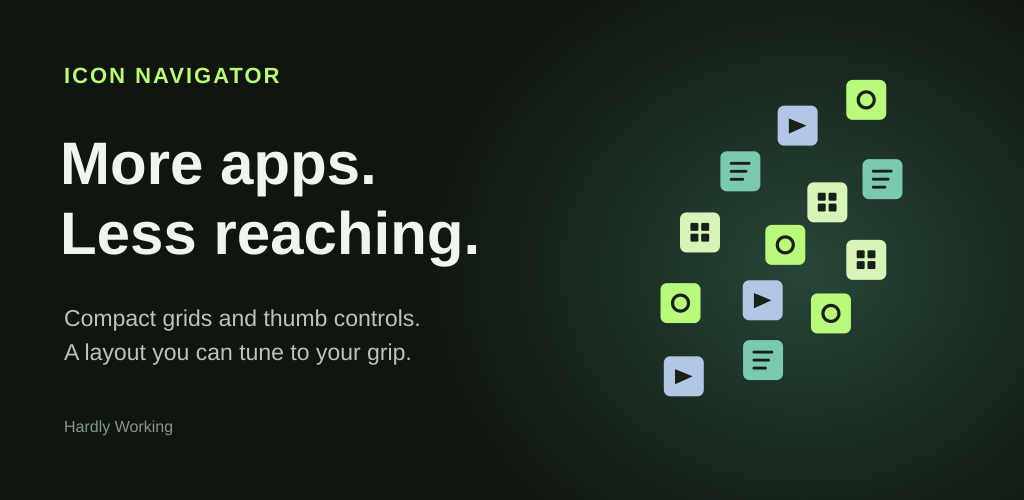
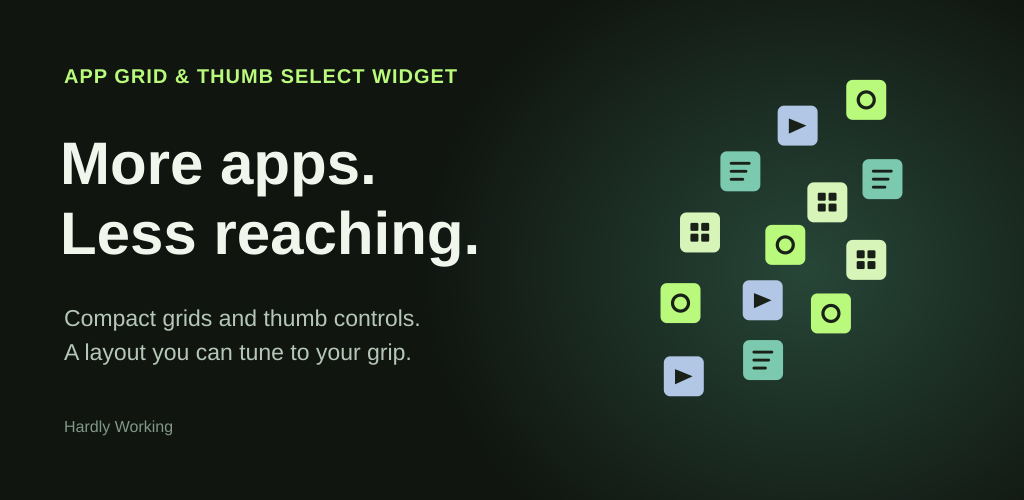
Rename app and replace email action with developer page

Changed region(s): [[0.0625, 0.12, 0.4375, 0.18]]

diff --git a/publishing/google-play/index.html b/publishing/google-play/index.html
@@ -1,6 +1,6 @@
 <!doctype html>
 <html lang="en"><meta charset="utf-8"><meta name="viewport" content="width=device-width,initial-scale=1">
-<title>Icon Navigator · Google Play materials</title>
+<title>App Grid &amp; Thumb Select Widget · Google Play materials</title>
 <style>
 body{margin:0;padding:32px;background:#101610;color:#eaf1e5;font:16px system-ui,sans-serif}
 h1{font-size:32px;margin:0 0 12px}p{color:#b5c4af;line-height:1.6;max-width:760px}
@@ -8,11 +8,11 @@ a{color:#bef779}main{display:grid;grid-template-columns:repeat(auto-fit,minmax(2
 figure{margin:0}img{width:100%;height:auto;display:block;border-radius:10px;border:1px solid #344032}
 figcaption{padding:12px 0;line-height:1.5}figcaption p{font-size:14px;margin:8px 0}header{margin-bottom:28px}
 .brand{display:flex;align-items:center;gap:20px}.brand img{width:88px;border:0;border-radius:0}.feature{max-width:1024px;margin:24px 0}.feature img{border-radius:0}nav{display:flex;flex-wrap:wrap;gap:20px;margin:20px 0}h2{font-size:24px;margin:36px 0 20px}
-</style><header><div class="brand"><img src="graphics/app-icon-512.png" alt="Icon Navigator app icon"><h1>Icon Navigator</h1></div>
+</style><header><div class="brand"><img src="graphics/app-icon-512.png" alt="App Grid &amp; Thumb Select Widget app icon"><h1>App Grid &amp; Thumb Select Widget</h1></div>
 <p>More apps in less space. Keep frequent apps close to your chosen corner.<br>
 Compare 9, 12, and 16 apps in a compact Grid, or place a Thumb selector low on the screen.</p>
 <p>Make it yours with optional labels, light or dark backgrounds, gradients, grayscale icons, borders, opacity, and independent layer sizes.</p>
-<p>Eight real app and launcher captures · version 0.6.4 · 1080 × 1920 · RGB PNG.<br>
+<p>Eight real app and launcher captures · version 0.6.5 · 1080 × 1920 · RGB PNG.<br>
 Original packaged AOSP and Fossify icons, styled using the app’s own visual options. No phone artwork or imported icon images.</p>
 <nav><a href="graphics/app-icon-512.png">512px store icon</a><a href="graphics/feature-graphic-1024x500.png">Feature graphic</a><a href="RELEASE-CHECKLIST.md">Release checklist</a><a href="APP-CONTENT.md">App content answers</a></nav>
 <figure class="feature"><img src="graphics/feature-graphic-1024x500.png" alt="More apps. Less reaching. Original thumb-layout illustration."><figcaption>1024 × 500 feature graphic · original vector artwork</figcaption></figure>

diff --git a/app/src/main/java/dev/iconnavigator/PrivacyActivity.java b/app/src/main/java/dev/iconnavigator/PrivacyActivity.java
@@ -21,25 +21,31 @@ public final class PrivacyActivity extends Activity {
         super.onCreate(state);getWindow().setDecorFitsSystemWindows(false);
         LinearLayout body=new LinearLayout(this);body.setOrientation(LinearLayout.VERTICAL);body.setPadding(dp(20),dp(12),dp(20),dp(20));
         body.setBackgroundColor(0xff101310);
-        TextView title=new TextView(this);title.setText("Privacy & support");title.setTextSize(26);title.setTextColor(0xffb9f97b);body.addView(title);
+        TextView title=new TextView(this);title.setText(R.string.privacy_support_title);title.setTextSize(26);title.setTextColor(0xffb9f97b);body.addView(title);
         TextView text=new TextView(this);text.setTextSize(16);text.setTextColor(0xffedf3e9);text.setPadding(0,dp(16),0,dp(16));
         StringBuilder policy=new StringBuilder();
         try(var reader=new BufferedReader(new InputStreamReader(getResources().openRawResource(R.raw.privacy_policy),StandardCharsets.UTF_8))) {
             String line;while((line=reader.readLine())!=null)policy.append(line).append('\n');
         } catch(java.io.IOException e) {throw new IllegalStateException("Cannot read packaged privacy policy",e);}
         text.setText(policy);body.addView(text);
-        add(body,"Read policy online","https://github.com/erikhardlyworking/icon-navigator/blob/main/PRIVACY.md");
-        add(body,"Email Hardly Working","mailto:workinghardlyforyou@gmail.com");
-        Button back=new Button(this);back.setText("Back to settings");back.setAllCaps(false);back.setOnClickListener(v->finish());body.addView(back);
+        add(body,getString(R.string.read_policy_online),"https://github.com/erikhardlyworking/icon-navigator/blob/main/PRIVACY.md",false);
+        add(body,getString(R.string.more_apps_by_developer),getString(R.string.developer_page_url),true);
+        Button back=new Button(this);back.setText(R.string.back_to_settings);back.setAllCaps(false);back.setOnClickListener(v->finish());body.addView(back);
         ScrollView scroll=new ScrollView(this);scroll.setBackgroundColor(Color.BLACK);scroll.addView(body);
         scroll.setOnApplyWindowInsetsListener((v,insets)->{var bars=insets.getInsets(WindowInsets.Type.systemBars());v.setPadding(bars.left,bars.top,bars.right,bars.bottom);return insets;});
         setContentView(scroll);
     }
     private int dp(int value){return Math.round(value*getResources().getDisplayMetrics().density);}
-    private void add(LinearLayout body,String label,String uri){
+    private void add(LinearLayout body,String label,String uri,boolean preferPlay){
         Button button=new Button(this);button.setText(label);button.setAllCaps(false);button.setMinHeight(dp(48));
-        button.setOnClickListener(v->{try{startActivity(new Intent(Intent.ACTION_VIEW,Uri.parse(uri)));}
-            catch(android.content.ActivityNotFoundException e){Toast.makeText(this,"No app is available to open this link.",Toast.LENGTH_SHORT).show();}});
+        button.setOnClickListener(v->{
+            Intent intent=new Intent(Intent.ACTION_VIEW,Uri.parse(uri));
+            if(preferPlay){
+                intent.setPackage("com.android.vending");
+                try{startActivity(intent);return;}catch(android.content.ActivityNotFoundException e){intent.setPackage(null);}
+            }
+            try{startActivity(intent);}catch(android.content.ActivityNotFoundException e){Toast.makeText(this,R.string.no_link_app,Toast.LENGTH_SHORT).show();}
+        });
         body.addView(button);
     }
 }

diff --git a/tools/prepare-play-assets.py b/tools/prepare-play-assets.py
@@ -99,7 +99,7 @@ feature='''<svg xmlns="http://www.w3.org/2000/svg" width="1024" height="500" vie
 <rect width="1024" height="500" fill="#101510"/>
 <ellipse cx="805" cy="270" rx="380" ry="335" fill="url(#glow)"/>
 <g font-family="Liberation Sans, sans-serif">
-<text x="64" y="83" fill="#b9f97b" font-size="22" font-weight="700" letter-spacing="2">ICON NAVIGATOR</text>
+<text x="64" y="83" fill="#b9f97b" font-size="20" font-weight="700" letter-spacing="1">APP GRID &amp; THUMB SELECT WIDGET</text>
 <text x="60" y="184" fill="#f1f6ed" font-size="60" font-weight="700">More apps.</text>
 <text x="60" y="254" fill="#f1f6ed" font-size="60" font-weight="700">Less reaching.</text>
 <text x="64" y="326" fill="#b5c7b6" font-size="23">Compact grids and thumb controls.</text>
@@ -114,11 +114,11 @@ for source,name,size,mode in [('app-icon.svg','app-icon-512.png','512x512','PNG3
         assert image.mode==('RGBA' if mode=='PNG32' else 'RGB')
 assert (GRAPHICS/'app-icon-512.png').stat().st_size<1024*1024
 
-title='Icon Navigator'
+title='App Grid & Thumb Select Widget'
 short='More apps in less space, with compact grids and controls for your thumb'
 full='''Make room on your home screen and keep frequent apps close to your thumb.
 
-Icon Navigator gives you two configurable Android widgets: Grid and Thumb icon selector.
+App Grid & Thumb Select Widget gives you two configurable Android widgets: Grid and Thumb icon selector.
 
 FIT MORE APPS INTO YOUR HOME SCREEN
 Choose your own rows and columns. Put 9, 12 or 16 apps into a compact grid, or turn a grid into a horizontal or vertical strip. Widget rows and columns are independent of your launcher's grid.
@@ -136,7 +136,7 @@ EVERY ICON OPENS ITS APP
 Tap a widget icon to launch its assigned activity directly. Icons fit the available widget size without adding pages or pagination. Settings explain when a selection needs more positions or when icons shrink to fit.
 
 LOCAL AND OFFLINE
-No account, advertising or analytics. Widget settings and selected artwork stay in private app storage. Icon Navigator does not request internet access.
+No account, advertising or analytics. Widget settings and selected artwork stay in private app storage. App Grid & Thumb Select Widget does not request internet access.
 
 After installation, add Grid or Thumb icon selector from your launcher's widget picker, choose your apps, and save. Your launcher controls placement and resizing. Android 12 or newer is required. Choose a size and spacing that work for your hand and phone.'''
 notes='''First Google Play release.
@@ -149,6 +149,7 @@ for name,text in [('title.txt',title),('short-description.txt',short),('full-des
 metadata={'applicationId':'dev.iconnavigator','publisher':'Hardly Working','supportEmail':'workinghardlyforyou@gmail.com',
           'language':'en-US','category':'PERSONALIZATION','website':'https://github.com/erikhardlyworking/icon-navigator',
           'privacyPolicyUrl':'https://github.com/erikhardlyworking/icon-navigator/blob/main/PRIVACY.md',
+          'developerPageUrl':'https://play.google.com/store/apps/dev?id=6256987868491351341',
           'title':title,'shortDescription':short,'fullDescription':full,'releaseNotes':notes,
           'pricing':'Choose in Play Console before first publication','targetAudience':'Choose in Play Console for the intended audience'}
 (DEST/'store-listing.json').write_text(json.dumps(metadata,indent=2)+'\n')

diff --git a/tools/capture-play-screenshots.py b/tools/capture-play-screenshots.py
@@ -247,7 +247,7 @@ def package():
     (DEST / "manifest.json").write_text(json.dumps({"appVersion": version, "screenshots": records}, indent=2) + "\n")
     (DEST / "index.html").write_text('''<!doctype html>
 <html lang="en"><meta charset="utf-8"><meta name="viewport" content="width=device-width,initial-scale=1">
-<title>Icon Navigator · Google Play materials</title>
+<title>App Grid &amp; Thumb Select Widget · Google Play materials</title>
 <style>
 body{margin:0;padding:32px;background:#101610;color:#eaf1e5;font:16px system-ui,sans-serif}
 h1{font-size:32px;margin:0 0 12px}p{color:#b5c4af;line-height:1.6;max-width:760px}
@@ -255,7 +255,7 @@ a{color:#bef779}main{display:grid;grid-template-columns:repeat(auto-fit,minmax(2
 figure{margin:0}img{width:100%;height:auto;display:block;border-radius:10px;border:1px solid #344032}
 figcaption{padding:12px 0;line-height:1.5}figcaption p{font-size:14px;margin:8px 0}header{margin-bottom:28px}
 .brand{display:flex;align-items:center;gap:20px}.brand img{width:88px;border:0;border-radius:0}.feature{max-width:1024px;margin:24px 0}.feature img{border-radius:0}nav{display:flex;flex-wrap:wrap;gap:20px;margin:20px 0}h2{font-size:24px;margin:36px 0 20px}
-</style><header><div class="brand"><img src="graphics/app-icon-512.png" alt="Icon Navigator app icon"><h1>Icon Navigator</h1></div>
+</style><header><div class="brand"><img src="graphics/app-icon-512.png" alt="App Grid &amp; Thumb Select Widget app icon"><h1>App Grid &amp; Thumb Select Widget</h1></div>
 <p>More apps in less space. Keep frequent apps close to your chosen corner.<br>
 Compare 9, 12, and 16 apps in a compact Grid, or place a Thumb selector low on the screen.</p>
 <p>Make it yours with optional labels, light or dark backgrounds, gradients, grayscale icons, borders, opacity, and independent layer sizes.</p>

diff --git a/app/src/main/java/dev/iconnavigator/EditorActivity.java b/app/src/main/java/dev/iconnavigator/EditorActivity.java
@@ -111,7 +111,7 @@ public final class EditorActivity extends Activity {
             v.setPadding(bars.left, bars.top, bars.right, bars.bottom); return insets;
         });
         LinearLayout header = row(); header.setPadding(dp(20), dp(6), dp(16), 0);
-        weighted(header, text("ICON NAVIGATOR", 13, ACCENT));
+        weighted(header, text(getString(R.string.app_name).toUpperCase(Locale.ROOT), 13, ACCENT));
         if (!configuring) header.addView(button(widgetId == 0 ? "New widget ▾" : "Widget " + widgetId + " ▾", this::chooseWidget));
         root.addView(header);
         LinearLayout steps = row(); steps.setPadding(dp(12), 0, dp(12), 0); stepButtons.clear();
@@ -587,7 +587,7 @@ public final class EditorActivity extends Activity {
         if (config.icons.isEmpty()) { return; }
         AppWidgetManager manager = AppWidgetManager.getInstance(this);
         if (!manager.isRequestPinAppWidgetSupported()) {
-            new AlertDialog.Builder(this).setMessage("Save your draft, then long-press your home screen and choose Widgets → Icon Navigator.")
+            new AlertDialog.Builder(this).setMessage("Save your draft, then long-press your home screen and choose Widgets → " + getString(R.string.app_name) + ".")
                     .setPositiveButton("OK", null).show(); return;
         }
         store.save(0, config);

diff --git a/tools/package-play-kit.py b/tools/package-play-kit.py
@@ -5,6 +5,7 @@ import json
 from pathlib import Path
 import re
 import zipfile
+from xml.etree import ElementTree
 from PIL import Image
 
 ROOT=Path(__file__).resolve().parents[1]
@@ -38,6 +39,8 @@ for name,size,mode in [('app-icon-512.png',(512,512),'RGBA'),('feature-graphic-1
     with Image.open(DEST/'graphics'/name) as image:assert image.size==size and image.mode==mode,name
 assert (DEST/'graphics/app-icon-512.png').stat().st_size<=1024*1024
 listing=json.loads((DEST/'store-listing.json').read_text())
+app_name=ElementTree.parse(ROOT/'app/src/main/res/values/strings.xml').find("string[@name='app_name']").text
+assert listing['title']==app_name,(listing['title'],app_name)
 for key,limit in [('title',30),('shortDescription',80),('fullDescription',4000)]:assert len(listing[key])<=limit,key
 release=json.loads((DEST/'release/release-manifest.json').read_text())
 assert (release['versionName'],release['versionCode'],release['targetSdk'])==(version,code,36)

diff --git a/app/src/androidTest/java/dev/iconnavigator/PlayScreenshotInstrumentation.java b/app/src/androidTest/java/dev/iconnavigator/PlayScreenshotInstrumentation.java
@@ -50,7 +50,7 @@ public final class PlayScreenshotInstrumentation extends Instrumentation {
     };
     private static final String[] LABELS = {
         "Phone", "Messages", "Camera", "Gallery", "Clock", "Calendar", "Contacts", "Files",
-        "Calculator", "Notes", "Music", "Recorder", "Settings", "Search", "Browser", "Icon Navigator"
+        "Calculator", "Notes", "Music", "Recorder", "Settings", "Search", "Browser", "App Grid & Thumb Select Widget"
     };
     @Override public void onCreate(Bundle arguments) { args=arguments; super.onCreate(arguments); start(); }
     @Override public void onStart() {

diff --git a/docs/testing.md b/docs/testing.md
@@ -1,13 +1,14 @@
-# Validation — version 0.6.4
+# Validation — version 0.6.5
 
-Verified on 2026-11-15 using JDK 17, Gradle 8.14, Android SDK 36, and isolated Android 15 / API 35 emulator **emulator-5580** (1080 × 1920, 420 dpi). Version code **12**.
+Verified on 2026-11-15 using JDK 17, Gradle 8.14, Android SDK 36, and isolated Android 15 / API 35 emulator **emulator-5580** (1080 × 1920, 420 dpi). Version code **13**.
 
 | Check | Result |
 | --- | --- |
 | Debug APK and Android test APK builds | Passed |
 | JVM unit tests | 29 passed |
 | Android integration/UI tests | 28 passed |
-| Android lint | 0 errors, 14 warnings |
+| Android lint | 0 errors, 12 warnings |
+| Public name and developer link | 30-character title matches launcher/editor/Play copy; email button removed; actual developer-button click opens correct ID in emulator browser fallback |
 | Two offered entries and six compatibility entries | Eight providers bound; only Grid/Thumb lack hide_from_picker |
 | Inner/outer reach | Independent radial endpoints; ordered controls; preview, preset, recreation and Save persistence; schema 6 keeps Fit widget |
 | Saved handedness and grip | Left/right, center height, layer spacing, and edge inset round-trip independently |
@@ -55,18 +56,20 @@ Use an explicit isolated emulator serial, never the user's phone. Binding tests 
 
 ## Phone installation and limits
 
-A Samsung **SM-S938B**, Android 17 / API 37, received **0.6.4 (12)** on **2026-11-15** through an authorized compatible `adb -s PHONE_SERIAL install -r`. Installation succeeded and package version verification confirmed 0.6.4 (12). App data, preferences and existing widget configurations were preserved. Automated suites and capture configurations stayed on the isolated emulator. This is installation verification, not a complete API 37 UI test pass.
+A Samsung **SM-S938B**, Android 17 / API 37, received **0.6.5 (13)** on **2026-11-15** through an authorized compatible `adb -s PHONE_SERIAL install -r`. Installation succeeded and package version verification confirmed 0.6.5 (13). App data, preferences and existing widget configurations were preserved. Automated suites and capture configurations stayed on the isolated emulator. This is installation verification, not a complete API 37 UI test pass.
 
 There is no large fixed thumb minimum. The new entry requests 2 × 3 launcher cells with a 40 dp minimum resize hint; geometry fits all nonempty configurations to actual bounds. Small widgets can have small icons/targets, and labels hide below 34 dp. Actual comfort, Samsung placement/resizing behavior, Android 12, large fonts, TalkBack, other launchers, custom artwork providers, and large-collection performance on physical devices still need hands-on coverage. Launcher insets and whether the launcher honors hide_from_picker are host-controlled.
 
-The 14 lint warnings concern Gradle version, API 33 Back manifest opt-in on min 31, custom-view construction/draw allocation, unused/obsolete icon resources, English programmatic strings and intentional physical left/right placement. There are no lint errors. A narrow GestureBackNavigation suppression keeps only the API 31/32 onBackPressed fallback; API 33+ uses the framework dispatcher. No production dependency was added.
+The 12 lint warnings concern Gradle version, API 33 Back manifest opt-in on min 31, custom-view construction/draw allocation, unused/obsolete icon resources, English programmatic strings and intentional physical left/right placement. There are no lint errors. A narrow GestureBackNavigation suppression keeps only the API 31/32 onBackPressed fallback; API 33+ uses the framework dispatcher. No production dependency was added.
 
-The required four Gradle checks and release bundle build passed for 0.6.4. All **29 JVM** and **28 Android** tests passed. A previous 0.6.3 run observed an existing transient resize-callback assertion; its full repeat passed. Current integration coverage is on API 35, with target SDK 36; a full API 36/37 runtime suite and Play's pre-launch report remain release-stage checks.
+The required four Gradle checks and release bundle build passed for 0.6.5. All **29 JVM** and **28 Android** tests passed. A previous 0.6.3 run observed an existing transient resize-callback assertion; its full repeat passed. Current integration coverage is on API 35, with target SDK 36; a full API 36/37 runtime suite and Play's pre-launch report remain release-stage checks.
+
+The renamed Privacy & support screen was also opened on the isolated emulator. Its visible buttons are Read policy online, More apps by this developer and Back to settings; no email button remains. Clicking More apps launched the HTTPS developer URL with ID **6256987868491351341** in the emulator's browser, exercising the fallback when Google Play is unavailable. The URL matches both the publisher link in the public Rainline listing and the existing tide app. Play Store routing itself still needs a store-equipped device check. Public and offline policy content were compared after the rename.
 
 ## Screenshots
 
-The current [Google Play materials](../publishing/google-play/README.md) contain eight real 0.6.4 captures at 1080 × 1920, 24-bit RGB PNG. The first three compare four ordinary shortcuts with 9/12/16 widget apps in an equal 2 × 2 Launcher3 footprint. They show optional labels, Light and transparent styles. Image 4 shows 13 stock-icon apps using the current factory thumb geometry, transparent on plain black, low/right with no ordinary shortcuts or dock. It uses a debug-only real Android AppWidgetHost at 250 × 300 dp. Forest/grayscale/border styling appears on a customized 12-app left selector. A Dark 8-app strip, actual icon-color choices, and independent layer-size sliders complete the set.
+The current [Google Play materials](../publishing/google-play/README.md) contain eight real 0.6.5 captures at 1080 × 1920, 24-bit RGB PNG. The first three compare four ordinary shortcuts with 9/12/16 widget apps in an equal 2 × 2 Launcher3 footprint. They show optional labels, Light and transparent styles. Image 4 shows 13 stock-icon apps using the current factory thumb geometry, transparent on plain black, low/right with no ordinary shortcuts or dock. It uses a debug-only real Android AppWidgetHost at 250 × 300 dp. Forest/grayscale/border styling appears on a customized 12-app left selector. A Dark 8-app strip, actual icon-color choices, and independent layer-size sliders complete the set.
 
-All sample artwork comes from original AOSP/Fossify app icons and Icon Navigator's packaged icon; no personal artwork or screenshots are used. Four hash-pinned official Fossify release APKs are emulator fixtures, never production dependencies. The opt-in capture runner refuses phones. Capture assertions check exact app counts, real hosts, compact bounds and low placement, with no ordinary shortcuts in image 4. PNG dimensions/modes, distinct checksums and archive integrity are checked; the ordinary test runner is restored afterward.
+All sample artwork comes from original AOSP/Fossify app icons and App Grid & Thumb Select Widget's packaged icon; no personal artwork or screenshots are used. Four hash-pinned official Fossify release APKs are emulator fixtures, never production dependencies. The opt-in capture runner refuses phones. Capture assertions check exact app counts, real hosts, compact bounds and low placement, with no ordinary shortcuts in image 4. PNG dimensions/modes, distinct checksums and archive integrity are checked; the ordinary test runner is restored afterward.
 
 The 512 × 512 RGBA store icon matches the adaptive launcher icon. The 1024 × 500 RGB feature graphic is original vector artwork based on production thumb geometry. The public source and kit use an explicit allowlist excluding private signing material, local paths, device identifiers, build outputs and historical personal screenshots. The signed release AAB targets API 36; signature/ZIP verification and absence of debug capture/test classes are checked. The release checksum is in `publishing/google-play/release/release-manifest.json`.

diff --git a/publishing/google-play/APP-CONTENT.md b/publishing/google-play/APP-CONTENT.md
@@ -1,16 +1,16 @@
-# Play Console declarations for 0.6.4
+# Play Console declarations for 0.6.5
 
 These answers follow the current source and release configuration. Review the exact questions presented in your Console; account-specific business declarations and the intended audience remain the publisher's choices.
 
 ## Data safety
 
-**Does the app collect or share required user data types? No.** No personal data is transmitted off the device by Icon Navigator. No accounts, ads, analytics, crash-upload service or network permission exist. No production SDKs are included. Installed launcher app identifiers, names and icons are used locally to configure shortcuts. Selected images are copied from the user-selected document URI into private app storage. Preferences and imported artwork remain local; cloud and device-transfer backup are disabled.
+**Does the app collect or share required user data types? No.** No personal data is transmitted off the device by App Grid & Thumb Select Widget. No accounts, ads, analytics, crash-upload service or network permission exist. No production SDKs are included. Installed launcher app identifiers, names and icons are used locally to configure shortcuts. Selected images are copied from the user-selected document URI into private app storage. Preferences and imported artwork remain local; cloud and device-transfer backup are disabled.
 
 Android's widget host receives the user-configured widget for display, and tapping a shortcut launches the selected activity. These are the app's user-requested/platform operations. They are not a transfer of an installed-app inventory to the publisher. Google excludes qualifying user-initiated transfers and service-provider processing from its sharing declaration; on-device processing is outside its collection definition. This **No/No** assessment is an inference from those definitions and the audited behavior, not an automated Play certification. [Data safety definitions and exceptions](https://support.google.com/googleplay/android-developer/answer/10787469).
 
-If the form skips encryption/deletion questions after No, leave them skipped. Do not claim independent security certification or an encryption-in-transit feature: the app transmits no data. There is no account creation, so the account-deletion URL requirement for apps with account creation does not apply. Local settings/artwork can be deleted through Android Settings → Apps → Icon Navigator → Storage → Clear storage, or by uninstalling. Removing a widget deletes its configuration; shared imported files may remain until app storage is cleared.
+If the form skips encryption/deletion questions after No, leave them skipped. Do not claim independent security certification or an encryption-in-transit feature: the app transmits no data. There is no account creation, so the account-deletion URL requirement for apps with account creation does not apply. Local settings/artwork can be deleted through Android Settings → Apps → App Grid & Thumb Select Widget → Storage → Clear storage, or by uninstalling. Removing a widget deletes its configuration; shared imported files may remain until app storage is cleared.
 
-The optional support button opens the user's email app. Information voluntarily sent in support email is handled by the publisher and email providers as described in the policy; it is not automatically read or uploaded by Icon Navigator. Opening the policy URL likewise delegates to a browser. Reassess the form and policy before adding any network service or SDK.
+**More apps by this developer** opens Hardly Working's verified Google Play developer page, preferring the Play Store and falling back to a browser. There is no in-app email button. Information voluntarily sent to the support email listed on Google Play or in the policy is handled by the publisher and email providers; it is not automatically read or uploaded by the app. The policy link opens a browser. Reassess the form and policy before adding any network service or SDK.
 
 ## Other App content answers
 
@@ -33,7 +33,7 @@ All apps require an in-app and publicly accessible privacy policy, even when the
 
 ## Reviewer instructions, if requested
 
-No login or test account is needed. Long-press the Android home screen, choose Widgets → Icon Navigator, and add Grid or Thumb icon selector. Select one or more installed apps, adjust Basic settings or Visual options, and save. Alternatively open Icon Navigator, configure a draft, save and choose Add widget. The launcher controls placement and resizing. Tap a widget icon to launch its assigned activity directly. Thumb handedness and inner/outer reach are in Basic settings; layer icon sizes are in Visual options. The live preview remains visible throughout. Settings show overflow warnings; widgets have no pagination. Privacy & support is at the bottom of Visual options.
+No login or test account is needed. Long-press the Android home screen, choose Widgets → App Grid & Thumb Select Widget, and add Grid or Thumb icon selector. Select one or more installed apps, adjust Basic settings or Visual options, and save. Alternatively open App Grid & Thumb Select Widget, configure a draft, save and choose Add widget. The launcher controls placement and resizing. Tap a widget icon to launch its assigned activity directly. Thumb handedness and inner/outer reach are in Basic settings; layer icon sizes are in Visual options. The live preview remains visible throughout. Settings show overflow warnings; widgets have no pagination. Privacy & support is at the bottom of Visual options.
 
 ## Code evidence
 

diff --git a/PRIVACY.md b/PRIVACY.md
@@ -1,11 +1,11 @@
-# Icon Navigator privacy policy
+# App Grid & Thumb Select Widget privacy policy
 
 **Publisher:** Hardly Working  
 **Contact:** workinghardlyforyou@gmail.com  
 **Effective date:** 15 November 2026  
 **Android package:** `dev.iconnavigator`
 
-Icon Navigator helps you launch apps from configurable home-screen widgets. It works on your device without an account, advertising, analytics, or an app-operated server. The Android app does not request internet access and does not send your widget settings, installed-app information, or artwork to Hardly Working or other companies.
+App Grid & Thumb Select Widget helps you launch apps from configurable home-screen widgets. It works on your device without an account, advertising, analytics, or an app-operated server. The Android app does not request internet access and does not send your widget settings, installed-app information, or artwork to Hardly Working or other companies.
 
 ## Information used on your device
 
@@ -13,24 +13,24 @@ The app asks Android which apps in your current profile have launcher activities
 
 Your selected apps, order, labels, sizes, widget layout and appearance preferences are saved in the app's private storage. If you choose a custom icon or background through Android's document picker, the app copies that selected image into its private storage to display it. It does not request unrestricted access to your photo library or storage.
 
-Widget settings are provided to your Android launcher so it can display the widgets. Tapping an icon asks Android to open the activity you selected. Your launcher, Android system, and the apps you open have their own privacy practices. Icon Navigator does not receive the contents or account information of the apps it launches.
+Widget settings are provided to your Android launcher so it can display the widgets. Tapping an icon asks Android to open the activity you selected. Your launcher, Android system, and the apps you open have their own privacy practices. App Grid & Thumb Select Widget does not receive the contents or account information of the apps it launches.
 
 ## Collection and sharing
 
-The app does not transmit personal information off your device. It contains no advertising or analytics SDKs, tracking identifiers, crash-upload service, or account registration. Hardly Working does not collect or sell your installed-app list, widget configuration or selected images through Icon Navigator.
+The app does not transmit personal information off your device. It contains no advertising or analytics SDKs, tracking identifiers, crash-upload service, or account registration. Hardly Working does not collect or sell your installed-app list, widget configuration or selected images through App Grid & Thumb Select Widget.
 
 Automatic cloud backup and device-transfer backup of the app's private data are disabled in the app's Android configuration. Device administrators, operating systems and services outside the app remain subject to their own controls and policies.
 
 ## Retention and deletion
 
-Local settings and imported images stay on your device until you remove them where supported, clear Icon Navigator's storage in Android Settings, or uninstall the app. Removing a widget deletes that widget's configuration; imported files may remain in app storage for use by other widgets until app storage is cleared or the app is uninstalled. There is no online account to delete and no remote copy of your widget data held by Hardly Working.
+Local settings and imported images stay on your device until you remove them where supported, clear App Grid & Thumb Select Widget's storage in Android Settings, or uninstall the app. Removing a widget deletes that widget's configuration; imported files may remain in app storage for use by other widgets until app storage is cleared or the app is uninstalled. There is no online account to delete and no remote copy of your widget data held by Hardly Working.
 
 ## Support and external links
 
 If you email workinghardlyforyou@gmail.com, Hardly Working receives the address and information you choose to include and uses them to handle your request. Please avoid sending information you do not want included in that correspondence. Email is handled by your chosen email service and the publisher's email provider.
 
-The public source and online policy are hosted on GitHub. Opening an external policy, source or support link uses your chosen browser or email app; those services have their own privacy policies. These links do not add analytics or network access to Icon Navigator itself.
+The public source and online policy are hosted on GitHub. The **More apps by this developer** button opens Hardly Working's Google Play developer page in the Play Store, with a browser fallback. Opening external links uses those services under their own privacy policies. The support email is available in the Google Play listing and this policy; there is no in-app email button. These links do not add analytics or network access to App Grid & Thumb Select Widget itself.
 
 ## Changes and contact
 
-If the app's data practices change, this policy will be updated with a new effective date. Questions about Icon Navigator or this policy can be sent to **workinghardlyforyou@gmail.com**.
+If the app's data practices change, this policy will be updated with a new effective date. Questions about App Grid & Thumb Select Widget or this policy can be sent to **workinghardlyforyou@gmail.com**.

diff --git a/publishing/google-play/README.md b/publishing/google-play/README.md
@@ -1,6 +1,6 @@
 # Google Play materials
 
-Prepared listing assets for Icon Navigator **0.6.4**. Start with [the release checklist](RELEASE-CHECKLIST.md), which maps every upload field to a file and explains the signed bundle, privacy policy, key backup and remaining Console choices. [App content answers](APP-CONTENT.md) cover privacy/data safety, app access, ads and rating facts. [Publication status](PUBLICATION.md) records the public source status.
+Prepared listing assets for App Grid & Thumb Select Widget **0.6.5**. Start with [the release checklist](RELEASE-CHECKLIST.md), which maps every upload field to a file and explains the signed bundle, privacy policy, key backup and remaining Console choices. [App content answers](APP-CONTENT.md) cover privacy/data safety, app access, ads and rating facts. [Publication status](PUBLICATION.md) records the public source status.
 
 Eight real screenshots show the two main uses—**fit more apps into the launcher's grid** and **keep frequent apps near your chosen thumb corner**—alongside appearance controls. Captured on a dedicated Android 15 / API 35 AOSP emulator. Upload the PNGs in `phone/`, in filename order; open `index.html` to compare them or use `icon-navigator-google-play-screenshots.zip`. `icon-navigator-google-play-kit.zip` includes screenshots, icon, feature graphic, listing copy, policy, declarations and the signed AAB. `icon-navigator-public-source.zip` is a separate source export without private keys or personal screenshots.
 
@@ -23,7 +23,7 @@ The Thumb examples use only the lower part of the screen, rather than spreading 
 
 ## Artwork and capture provenance
 
-**No personal artwork, screenshots or installed-app inventory is included.** The chosen thumb geometry inspired the factory profile; all sample app assignments are independently selected emulator fixtures. Targets use original icons returned by PackageManager: AOSP emulator apps, four original Fossify apps, and Icon Navigator's own packaged icon. Grayscale and opacity examples use the app's supported controls on that artwork. No imported/custom icon files are used. `icon-provenance.json` lists all 16 sample targets. Outside image 4, ordinary launcher shortcuts and the stock dock also use the apps' packaged icons.
+**No personal artwork, screenshots or installed-app inventory is included.** The chosen thumb geometry inspired the factory profile; all sample app assignments are independently selected emulator fixtures. Targets use original icons returned by PackageManager: AOSP emulator apps, four original Fossify apps, and App Grid & Thumb Select Widget's own packaged icon. Grayscale and opacity examples use the app's supported controls on that artwork. No imported/custom icon files are used. `icon-provenance.json` lists all 16 sample targets. Outside image 4, ordinary launcher shortcuts and the stock dock also use the apps' packaged icons.
 
 The additional apps are original releases of [Fossify Calculator](https://github.com/FossifyOrg/Calculator/releases), [Notes](https://github.com/FossifyOrg/Notes/releases), [Music Player](https://github.com/FossifyOrg/Music-Player/releases), and [Voice Recorder](https://github.com/FossifyOrg/Voice-Recorder/releases). They supply distinct real launcher targets for the 16-app example. `sample-apps.json` pins their release URLs and verified SHA-256 hashes. APKs are installed only on the dedicated emulator, cached under the system temporary directory, and excluded from this bundle and the production app.
 

diff --git a/docs/user-guide.md b/docs/user-guide.md
@@ -1,6 +1,6 @@
 # Configure a widget
 
-Long-press your home screen, open **Widgets**, and find **Icon Navigator**. Choose **Grid** or **Thumb icon selector**. You can also open the app, choose a type for a new draft, save, then choose **Add widget**.
+Long-press your home screen, open **Widgets**, and find **App Grid & Thumb Select Widget**. Choose **Grid** or **Thumb icon selector**. You can also open the app, choose a type for a new draft, save, then choose **Add widget**.
 
 Old alternate Grid and left/right entries are retained for existing widgets and marked hidden. Some launchers may still list them.
 
@@ -61,8 +61,8 @@ Custom icon artwork keeps its aspect ratio. Imported background photos are cente
 
 Every foreground app icon on a saved widget opens its assigned activity directly. Decorative backgrounds have no actions. Use the top widget selector to edit another instance; each keeps independent settings.
 
-Version 0.6.4 retains older widget bindings, counts, handedness, artwork, and assignments. Missing layer scales become 100%. Older label settings remain explicit overrides, and absent grip controls retain the previous corner position and spacing. Old page settings are ignored. Removed experimental shapes still migrate to Grid. An ordinary compatible update preserves data.
+Version 0.6.5 retains older widget bindings, counts, handedness, artwork, and assignments. Missing layer scales become 100%. Older label settings remain explicit overrides, and absent grip controls retain the previous corner position and spacing. Old page settings are ignored. Removed experimental shapes still migrate to Grid. An ordinary compatible update preserves data.
 
-Open **Privacy & support** at the bottom of Visual options to read the offline policy or open the policy/support links in another app. Icon Navigator works without an account, ads, analytics, or internet permission.
+Open **Privacy & support** at the bottom of Visual options to read the offline policy or open the policy link and **More apps by this developer** in another app. The developer button prefers Google Play and falls back to a browser; there is no email button. App Grid & Thumb Select Widget works without an account, ads, analytics, or internet permission.
 
 Android 12+ is required. Thumb reach depends on hand size and placement; [the simulation study](thumb-layout-study.md) verifies geometry rather than comfort for every hand.
